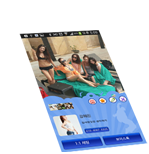
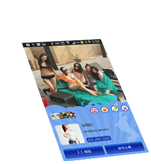
update

diff --git a/css/stylefb.css b/css/stylefb.css
@@ -151,8 +151,8 @@ h2 {text-align:center;}
   background-position: 0 -270px;
 }
 
-#goStore {position:absolute; height:200px; background:#fff; top:130px; left:10px; right:10px; -webkit-box-shadow:0px 0px 10px #000}
-#goStore iframe {border:none; height:200px; width:100%;}
+#goStore {position:absolute; height:200px; background:#fff; width:300px; top:130px; -webkit-box-shadow:0px 0px 10px #000}
+#goStore iframe {border:none; height:200px}
 
 
 

diff --git a/js/applist.js b/js/applist.js
@@ -92,7 +92,9 @@ function showad() {
 	M('body').append('div', {
 		'id': 'goStore'
 	})
-	M('#goStore').html('<iframe src="'+bannerData['url']+'"></iframe>')
+	M('#goStore')
+		.css('left', M.screen().width/2 - 150 + 'px')
+		.html('<iframe src="'+bannerData['url']+'"></iframe>')
 }
 
 function closeBanner(){
